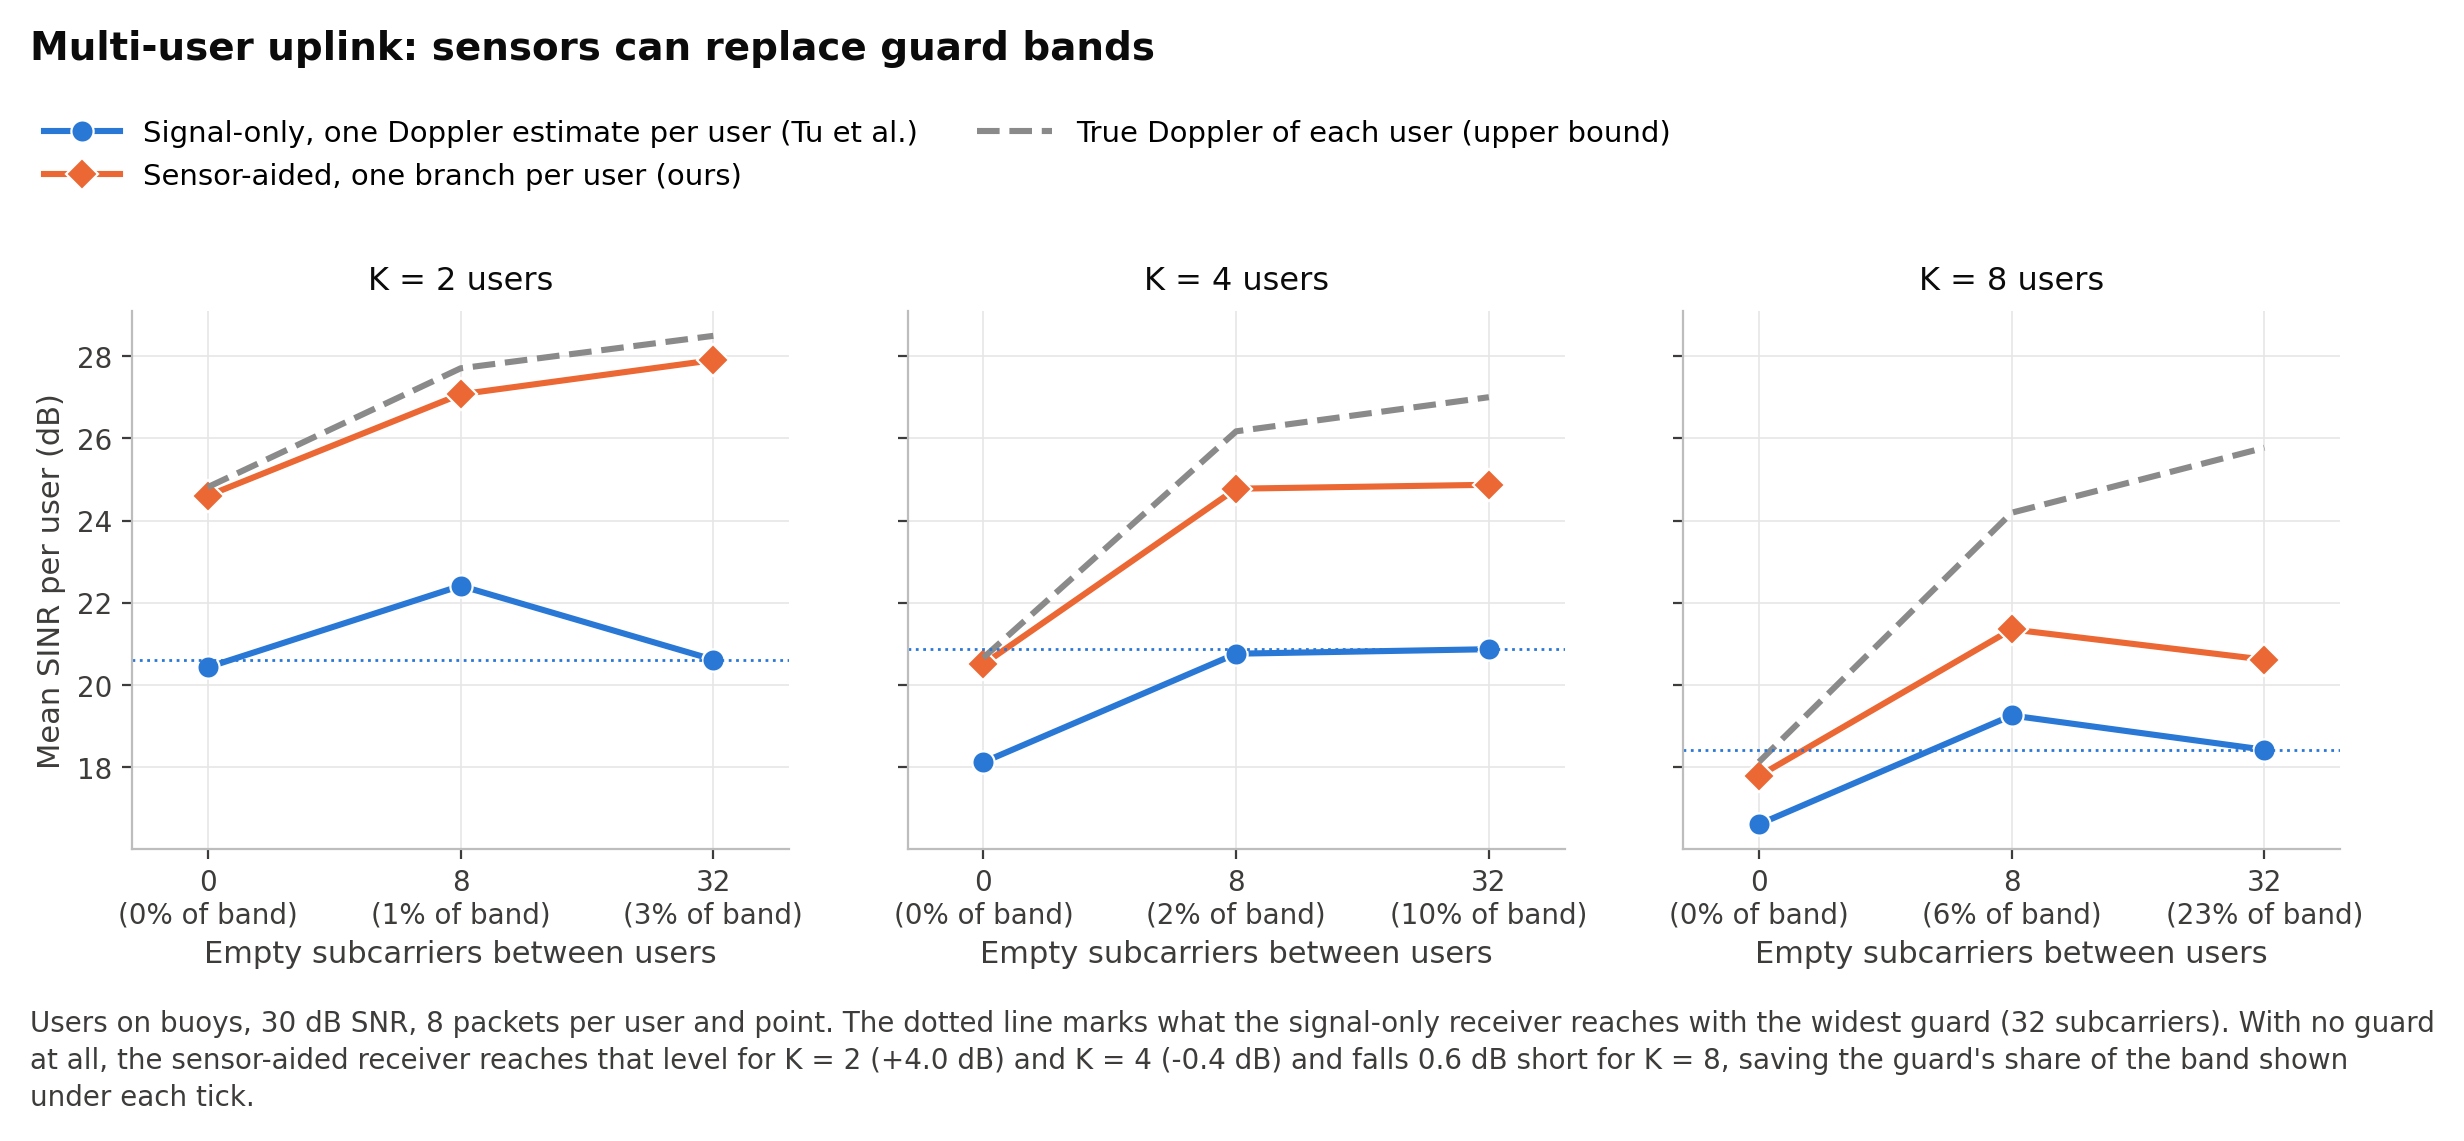
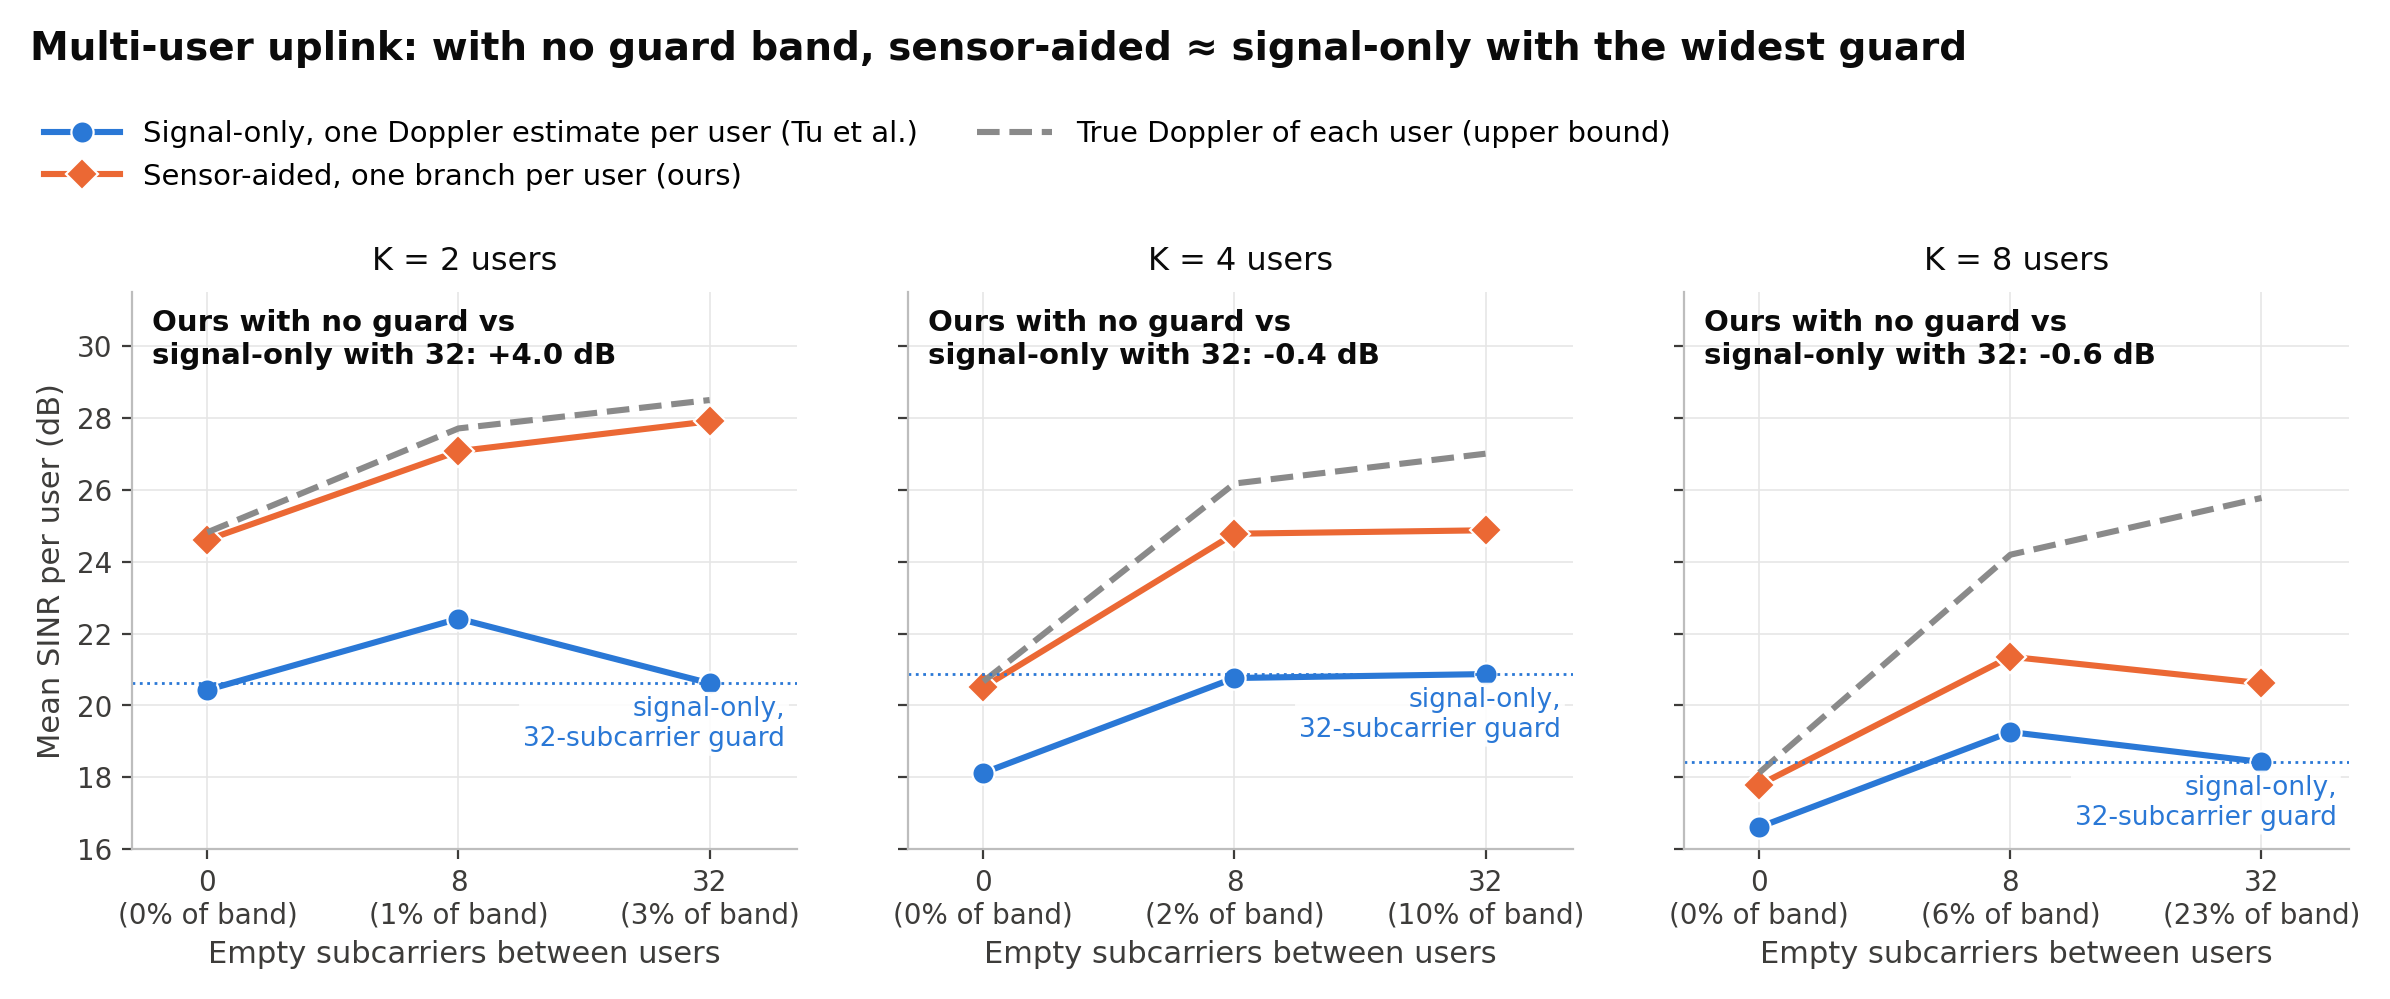
Figures: gains written on the plots, no captions

diff --git a/code/scripts/fig_gains.py b/code/scripts/fig_gains.py
@@ -7,12 +7,12 @@ Figures of where sensor-aided Doppler estimation gains (PLAN: Phase 8; results o
   fig_mu_guard.png       multi-user uplink, buoy users, mean SINR vs guard subcarriers (band overhead) at 30 dB
 Colours follow the role, the same in every figure (dataviz default categorical slots 1-3, which pass the
 colour-blind checks for all pairs): signal-only best baseline blue, sensor-aided (ours) orange, no cancellation aqua;
-genie / ideal references grey dashed; each series also has its own marker. One y-axis per panel.
+genie / ideal references grey dashed; each series also has its own marker. One y-axis per panel. The gain of ours over
+the signal-only baseline is written on the plot.
 Usage: python scripts/fig_gains.py. Output: results/figures/.
 """
 import json
 import os
-import textwrap
 
 import matplotlib
 
@@ -40,17 +40,31 @@ def style_axis(ax, title, xlabel, ylabel):
         ax.spines[side].set_color("#bdbdbd")
 
 
-def finish(fig, ax, ncol, title, caption, name, wrap=150):
-    """Headline (the claim) and legend above the panels, caption (how to read it, setup) below."""
-    fig.tight_layout(rect=(0, 0, 1, 0.78), w_pad=2.0)
+def finish(fig, ax, ncol, title, name):
+    """Headline (the claim) and legend above the panels."""
+    fig.tight_layout(rect=(0, 0, 1, 0.80), w_pad=2.0)
     fig.suptitle(title, x=0.01, y=0.99, ha="left", fontsize=14, fontweight="bold", color=INK)
     h, l = ax.get_legend_handles_labels()
     fig.legend(h, l, loc="upper left", bbox_to_anchor=(0.005, 0.925), ncol=ncol, fontsize=10.5, frameon=False,
                handlelength=2.6, columnspacing=2.0)
-    fig.text(0.01, -0.01, textwrap.fill(caption, wrap), ha="left", va="top", fontsize=10, color=MUTED,
-             linespacing=1.4)
     fig.savefig(os.path.join(OUT, name), dpi=200, bbox_inches="tight", pad_inches=0.15)
     plt.close(fig)
+
+
+BOX = dict(boxstyle="round,pad=0.15", fc="white", ec="none", alpha=0.9)
+
+
+def gap_label(ax, x, y_lo, y_hi, dx):
+    """Double arrow from y_lo to y_hi beside x, with the difference written next to it (no arrow under 1 dB: the
+    label is placed above the point instead)."""
+    if abs(y_hi - y_lo) < 1.0:
+        ax.text(x + dx, max(y_lo, y_hi) + 0.6, f"{y_hi - y_lo:+.1f} dB", fontsize=10.5, fontweight="bold",
+                color=INK, ha="left", va="bottom", bbox=BOX)
+        return
+    ax.annotate("", xy=(x + dx, y_hi), xytext=(x + dx, y_lo),
+                arrowprops=dict(arrowstyle="<->", color=INK, lw=1.0, shrinkA=3, shrinkB=3))
+    ax.text(x + 1.6 * dx, (y_lo + y_hi) / 2, f"{y_hi - y_lo:+.1f} dB", fontsize=10.5, fontweight="bold", color=INK,
+            ha="left" if dx > 0 else "right", va="center", bbox=BOX)
 
 
 def fig_multipath_cdf():
@@ -63,21 +77,27 @@ def fig_multipath_cdf():
     fig, axes = plt.subplots(1, 3, figsize=(12, 4.9), sharey=True)
     for ax, (cfg, title) in zip(axes, cases):
         d = json.load(open(os.path.join(output_dir("b13_multipath"), cfg + ".json")))
+        packets = {}
         for key, lab, col, mk, ls in recv:
-            r = [x for x in d["rows"] if x.get("receiver") == key and x["snr_db"] == 30][0]
-            v = np.sort(r["per_packet_db"])
+            v = np.sort([x for x in d["rows"] if x.get("receiver") == key and x["snr_db"] == 30][0]["per_packet_db"])
+            packets[key] = v
             p = np.arange(1, len(v) + 1) / len(v)
             ax.step(v, p, where="post", color=col, lw=2.2, ls=ls, label=lab)
             if mk:
                 ax.plot(v, p, ls="none", marker=mk, ms=5, color=col, markeredgecolor="white", markeredgewidth=0.6)
+        # worst-10 % gap: 10th percentile of each cancellation
+        a, b = (float(np.percentile(packets[k], 10)) for k in ("signal_sic", "sensor_sic"))
+        ax.axhline(0.1, color="#9a9a9a", lw=0.8, ls=":")
+        ax.annotate("", xy=(b, 0.1), xytext=(a, 0.1), arrowprops=dict(arrowstyle="->", color=INK, lw=1.4))
+        ax.text(0.03, 0.97, f"Worst 10 % of packets (dotted):\nours {b - a:+.1f} dB", transform=ax.transAxes,
+                fontsize=10.5, color=INK, ha="left", va="top", fontweight="bold")
         style_axis(ax, f"{title} ({d['n_packets']} packets)", "SINR of the packet (dB)",
                    "Fraction of packets at or below" if ax is axes[0] else "")
         ax.set_xlim(left=0)
+        ax.set_ylim(-0.03, 1.28)
+        ax.set_yticks(np.arange(0, 1.01, 0.2))
     finish(fig, axes[0], 2, "Multipath: sensor-aided path cancellation lifts the worst packets",
-           "How to read: each curve gives, for every SINR on the x-axis, the fraction of packets that did no better; "
-           "further right is better, and the bottom of each curve is the worst packets. Setup: buoy-to-buoy link "
-           "at 1 km (real buoy motion, OOI Irminger), direct path plus a bottom bounce 10.7 ms later whose Doppler "
-           "differs by the buoys' heave, 30 dB SNR, industrial-grade motion sensors.", "fig_multipath_cdf.png", 170)
+           "fig_multipath_cdf.png")
 
 
 MU = (("branch_signal", "Signal-only, one Doppler estimate per user (Tu et al.)", BLUE, "o", "-"),
@@ -85,44 +105,49 @@ MU = (("branch_signal", "Signal-only, one Doppler estimate per user (Tu et al.)"
       ("branch_genie", "True Doppler of each user (upper bound)", GREY, None, "--"))
 
 
+def plot_mu(ax, xs, sel_by_x):
+    for key, lab, col, mk, ls in MU:
+        ax.plot(xs, [sel_by_x[x][key]["mean_sinr_db"] for x in xs], color=col, lw=2.2, ls=ls, marker=mk,
+                ms=8 if mk else 0, label=lab, markeredgecolor="white", markeredgewidth=0.8)
+
+
 def fig_mu_users(rows):
     fig, axes = plt.subplots(1, 2, figsize=(10, 4.9), sharey=True)
-    for ax, case, title in zip(axes, ("seabed users", "buoy users"),
-                               ("Users on the seabed", "Users on buoys")):
-        for key, lab, col, mk, ls in MU:
-            pts = sorted((r["K"], r[key]["mean_sinr_db"]) for r in rows
-                         if r["scenario"] == case and r["guard"] == 8 and r["snr_db"] == 30)
-            ax.plot(*zip(*pts), color=col, lw=2.2, ls=ls, marker=mk, ms=8 if mk else 0, label=lab,
-                    markeredgecolor="white", markeredgewidth=0.8)
-        style_axis(ax, title, "Number of users sharing the band, K", "Mean SINR per user (dB)" if ax is axes[0] else "")
+    for ax, case, title in zip(axes, ("seabed users", "buoy users"), ("Users on the seabed", "Users on buoys")):
+        sel = {r["K"]: r for r in rows if r["scenario"] == case and r["guard"] == 8 and r["snr_db"] == 30}
+        plot_mu(ax, (2, 4, 8), sel)
+        for K, r in sel.items():
+            gap_label(ax, K, r["branch_signal"]["mean_sinr_db"], r["branch_sensor"]["mean_sinr_db"],
+                      0.15 if K < 8 else -0.15)
+        style_axis(ax, title, "Number of users sharing the band, K",
+                   "Mean SINR per user (dB)" if ax is axes[0] else "")
         ax.set_xticks((2, 4, 8))
+        ax.set_xlim(1.5, 8.5)
     finish(fig, axes[0], 2, "Multi-user uplink: sensor-aided Doppler per user beats the signal-only receiver",
-           "Setup: a gateway on a buoy receives K users at 1 km, each on its own equal share of the 8 kHz band, "
-           "with 8 empty subcarriers between neighbours; 30 dB SNR; 8 packets per user and point. Left: only the "
-           "gateway moves, so its own motion sensor predicts every user's Doppler (no side information needed). "
-           "Right: every user is on a buoy and sends its motion as side information.", "fig_mu_users.png", 125)
+           "fig_mu_users.png")
 
 
 def fig_mu_guard(rows):
     fig, axes = plt.subplots(1, 3, figsize=(12, 4.9), sharey=True)
+    guards = (0, 8, 32)
     for ax, K in zip(axes, (2, 4, 8)):
-        sel = [r for r in rows if r["scenario"] == "buoy users" and r["K"] == K and r["snr_db"] == 30]
-        for key, lab, col, mk, ls in MU:
-            pts = [(i, r[key]["mean_sinr_db"]) for i, g in enumerate((0, 8, 32)) for r in sel if r["guard"] == g]
-            ax.plot(*zip(*pts), color=col, lw=2.2, ls=ls, marker=mk, ms=8 if mk else 0, label=lab,
-                    markeredgecolor="white", markeredgewidth=0.8)
-        ref = [r["branch_signal"]["mean_sinr_db"] for r in sel if r["guard"] == 32][0]
+        sel = {r["guard"]: r for r in rows if r["scenario"] == "buoy users" and r["K"] == K and r["snr_db"] == 30}
+        plot_mu(ax, range(3), {i: sel[g] for i, g in enumerate(guards)})
+        ref = sel[32]["branch_signal"]["mean_sinr_db"]
         ax.axhline(ref, color=BLUE, lw=1.0, ls=":")
-        guards = (0, 8, 32)
+        ax.text(2.3, ref - 0.35, "signal-only,\n32-subcarrier guard", fontsize=9.5, color=BLUE, ha="right", va="top",
+                bbox=BOX)
+        g0 = sel[0]["branch_sensor"]["mean_sinr_db"] - ref
+        ax.text(0.03, 0.97, f"Ours with no guard vs\nsignal-only with 32: {g0:+.1f} dB", transform=ax.transAxes,
+                fontsize=10.5, color=INK, ha="left", va="top", fontweight="bold")
         ax.set_xticks(range(3))
         ax.set_xticklabels([f"{g}\n({100 * (K - 1) * g / ACTIVE:.0f}% of band)" for g in guards])
-        ax.set_xlim(-0.3, 2.3)
-        style_axis(ax, f"K = {K} users", "Empty subcarriers between users", "Mean SINR per user (dB)" if ax is axes[0] else "")
-    finish(fig, axes[0], 2, "Multi-user uplink: sensors can replace guard bands",
-           "Users on buoys, 30 dB SNR, 8 packets per user and point. The dotted line marks what the signal-only "
-           "receiver reaches with the widest guard (32 subcarriers). With no guard at all, the sensor-aided "
-           "receiver reaches that level for K = 2 (+4.0 dB) and K = 4 (-0.4 dB) and falls 0.6 dB short for K = 8, "
-           "saving the guard's share of the band shown under each tick.", "fig_mu_guard.png", 170)
+        ax.set_xlim(-0.3, 2.35)
+        ax.set_ylim(16, 31.5)
+        style_axis(ax, f"K = {K} users", "Empty subcarriers between users",
+                   "Mean SINR per user (dB)" if ax is axes[0] else "")
+    finish(fig, axes[0], 2, "Multi-user uplink: with no guard band, sensor-aided ≈ signal-only with the widest guard",
+           "fig_mu_guard.png")
 
 
 def main():
